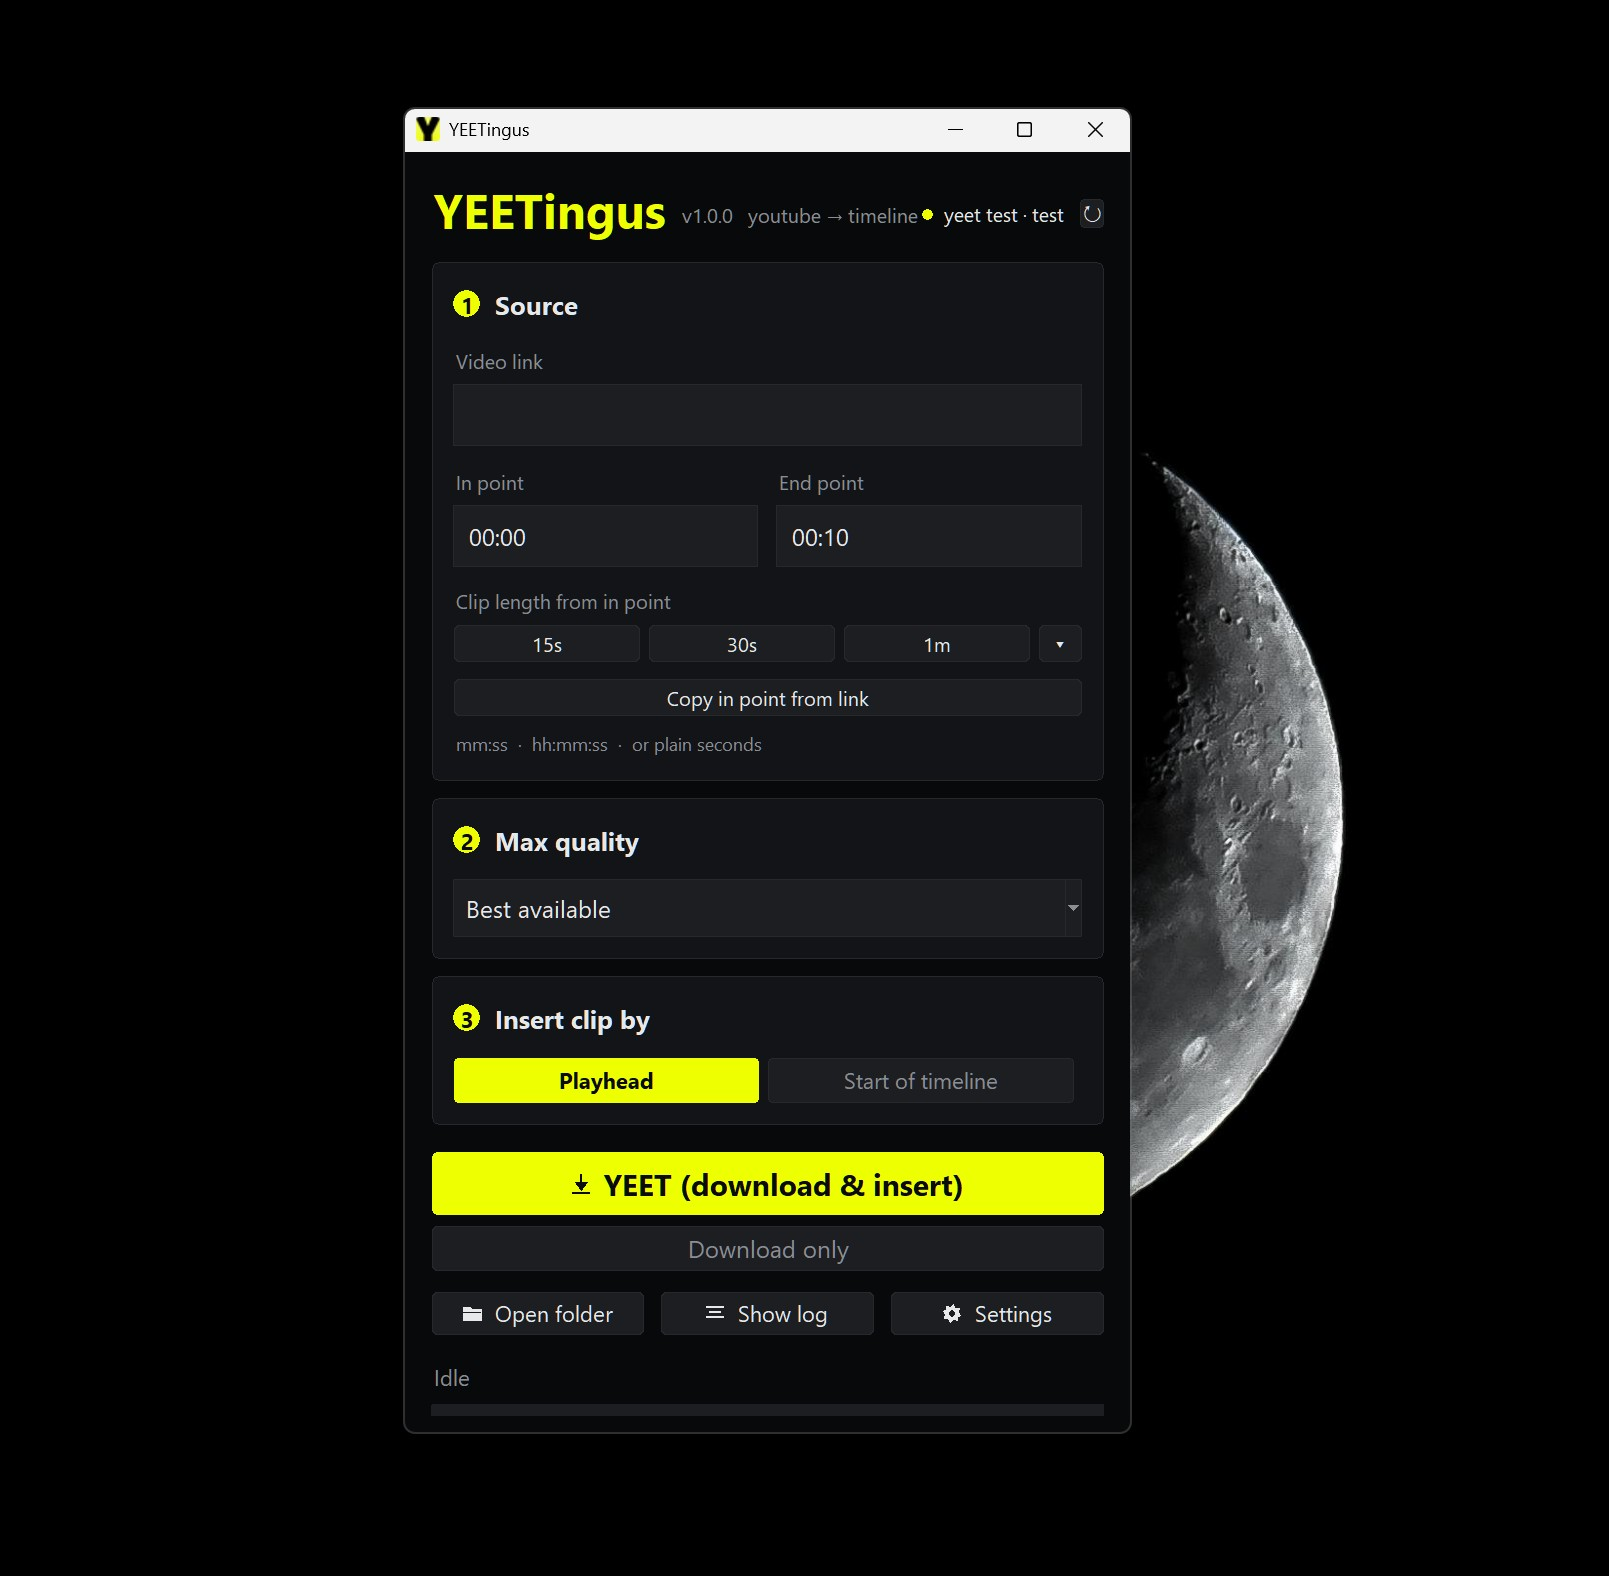
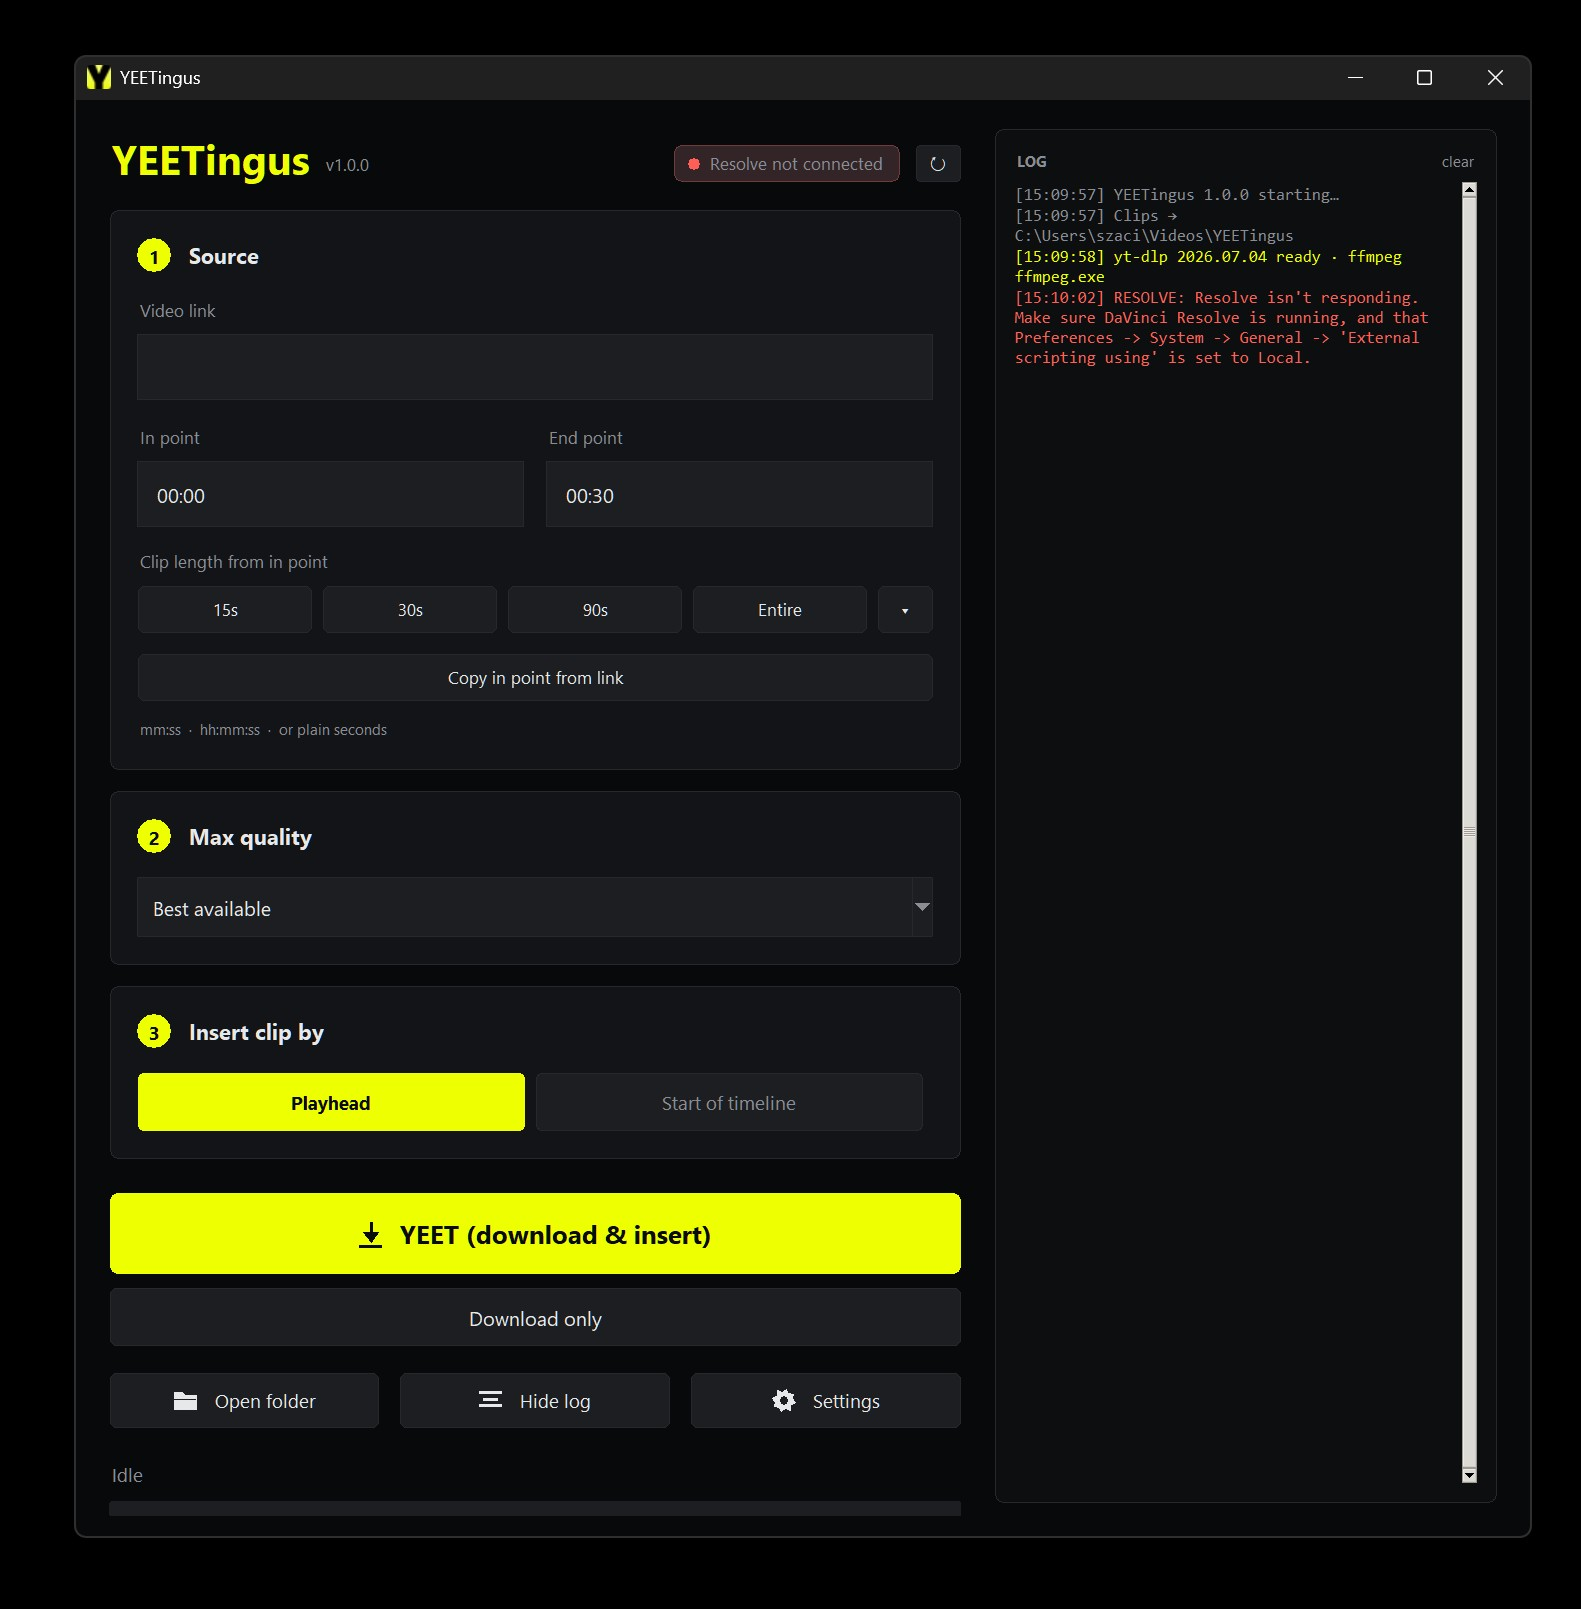
Update the screenshot to the current UI
Replaces a capture that predated the DPI scaling, the side-docked log, the
tinted status chip and the current button set. Displayed at 760px rather than
420px: the log panel makes the window much wider, and at the old width the text
was too small to read on the project page.

diff --git a/README.md b/README.md
@@ -51,7 +51,7 @@ asked for** — not the whole video — and hands the clip to Resolve at your pl
 Built for DaVinci Resolve, where no equivalent tool existed.
 
 <div align="center">
-  <img src="assets/screenshot.jpg" alt="YEETingus window" width="420">
+  <img src="assets/screenshot.jpg" alt="The YEETingus window, with the log panel open" width="760">
 </div>
 
 ---
